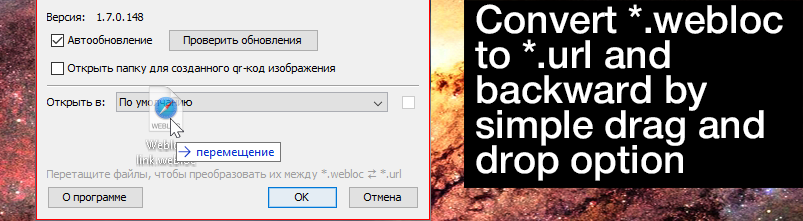
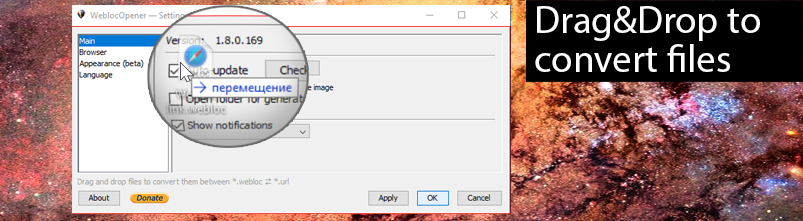
Added info about v1.8.0 update

diff --git a/index.html b/index.html
@@ -285,8 +285,8 @@
                     </li>
 
                     <li>
-                        Convert <code>.webloc</code> to <code>.url</code> and backward by using drag and drop
-                        on settings window.
+                        Convert <code>.webloc</code> to <code>.url</code> or <code>.desktop</code> and backward
+                        by using drag and drop on settings window.
                         <img src="img/faq/faq_convert_files.png"/>
                     </li>
 
@@ -316,6 +316,19 @@
                         WeblocOpener helps you to paste copied URL into ULR-field. It automatically finds an URL in your
                         clipboard.
                         <img src="img/faq/faq_auto_paste.png"/>
+                    </li>
+
+                    <li>
+                        Dark mode will protect your eyes at night. It turns on automatically scheduled or by your
+                        location.
+                        Check out in settings how to costomize it for yourself.
+                        <img src="img/faq/faq_dark_mode.png"/>
+                    </li>
+
+                    <li>
+                        New settings window can give you abilities to change: dark mode, language of the application,
+                        converter mode.
+                        <img src="img/faq/faq_new_settings.png"/>
                     </li>
 
                     <li>
